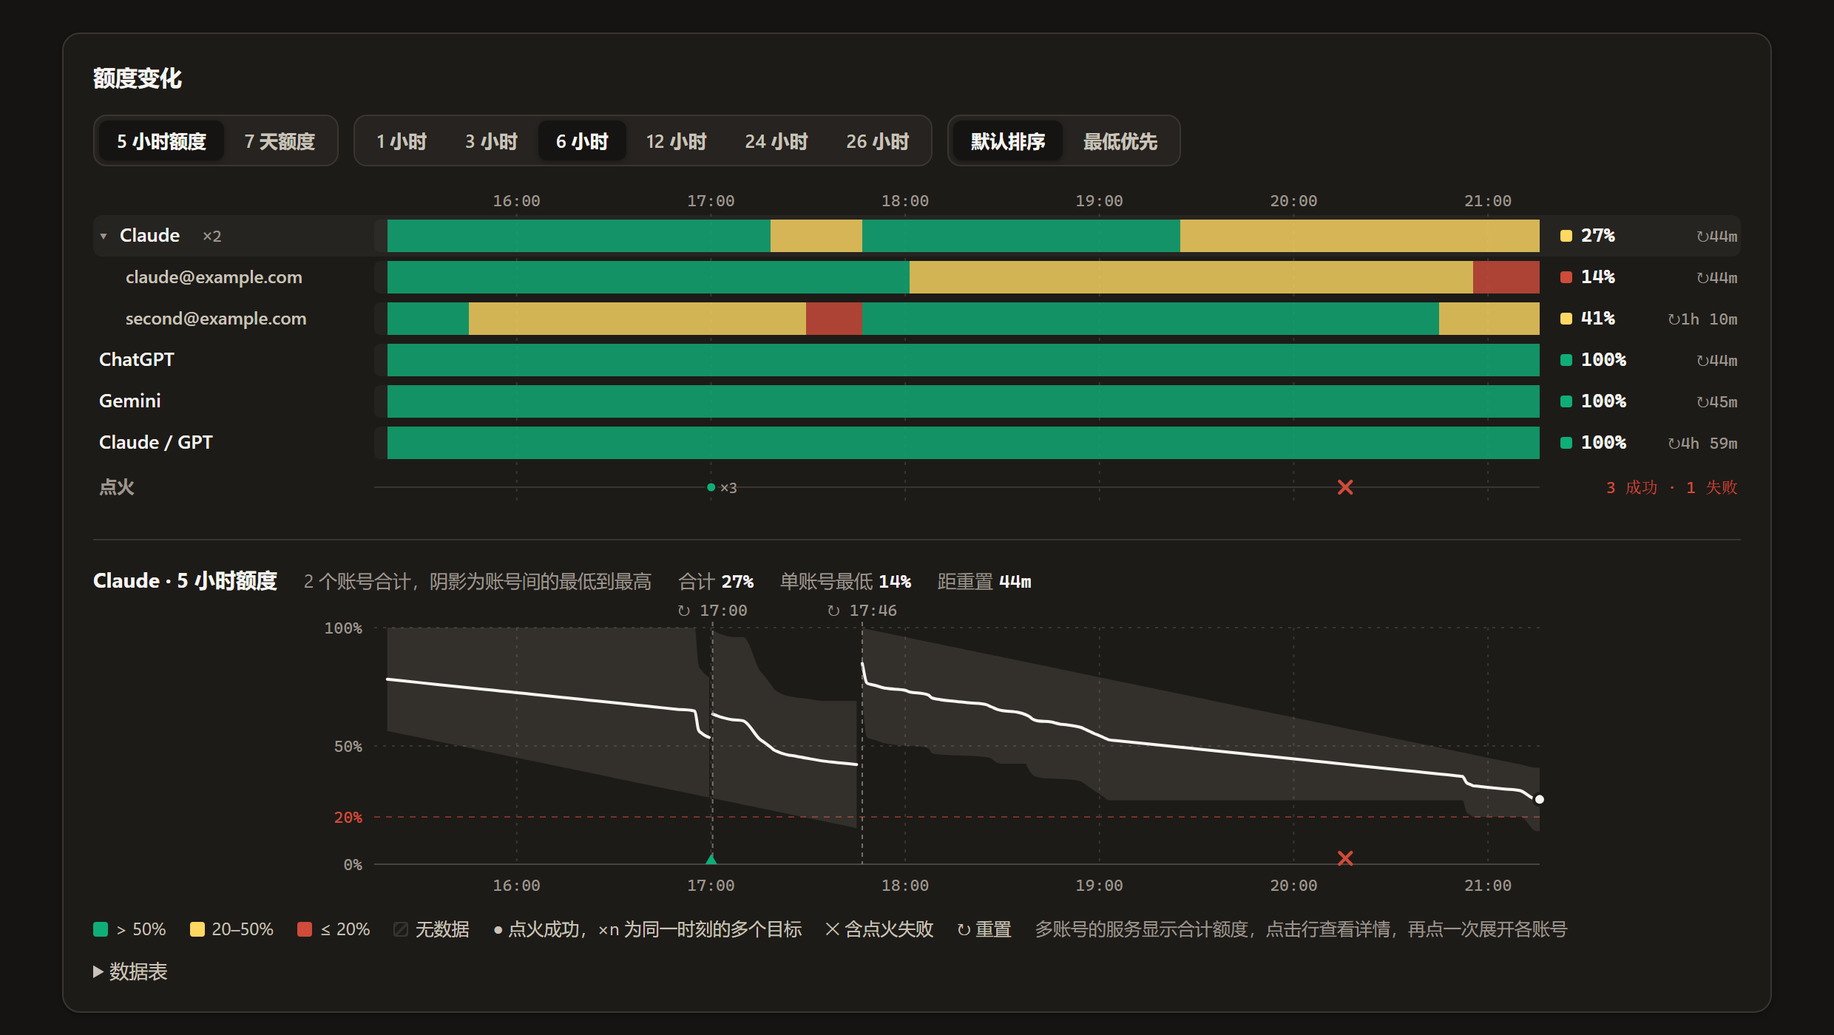
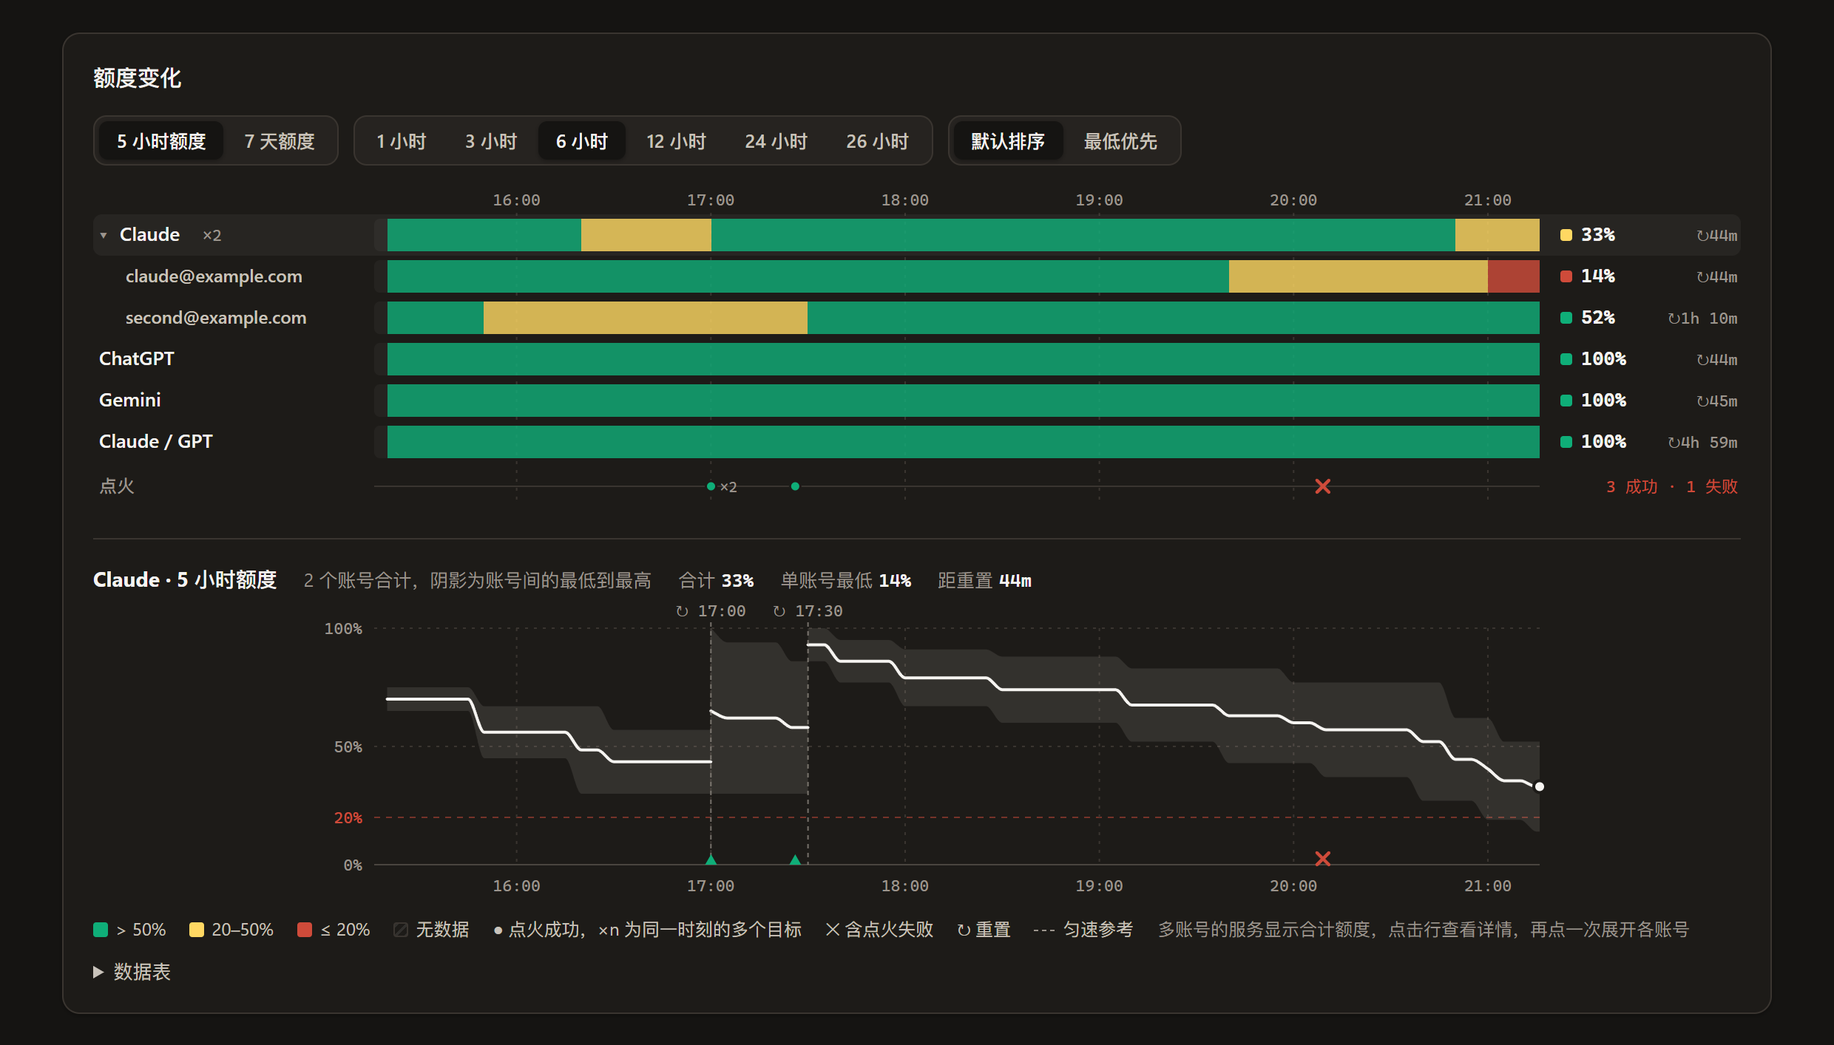
Draw an even-pace line for each quota cycle in the detail chart
Whether a cycle's usage is on track was hard to judge from the curve
alone. The detail chart of a single account now draws a dashed line for
each cycle, falling from 100% when the cycle starts to 0% at its reset,
and the tooltip shows its value at the hovered time.

A cycle ends at a reset found in the samples or at the current reset, and
starts one window length earlier, but not before the previous cycle ends:
a 5-hour window starts with the first request after a reset, so the
previous reset is not always the start. Pooled rows get no line, since
their accounts reset at different times.

The README chart screenshots are retaken from a mocked CPA to show the
line and the new legend entry.

diff --git a/internal/web/page.js b/internal/web/page.js
@@ -105,6 +105,7 @@
       legend_ignited: "● 点火成功，×n 为同一时刻的多个目标",
       legend_failed: "✕ 含点火失败",
       legend_reset: "↻ 重置",
+      pace_reference: "匀速参考",
       legend_pooled: "多账号的服务显示合计额度，点击行查看详情，再点一次展开各账号",
       data_table: "数据表",
       col_quota: "额度", col_account: "账号", col_latest: "最新", col_min: "最低", col_max: "最高", col_samples: "样本", col_to_reset: "距重置",
@@ -229,6 +230,7 @@
       legend_ignited: "● ignition succeeded; ×n marks several targets at the same time",
       legend_failed: "✕ an ignition failed",
       legend_reset: "↻ reset",
+      pace_reference: "Even pace",
       legend_pooled: "Services with several accounts show their total; click a row for details, click again to list the accounts",
       data_table: "Data table",
       col_quota: "Quota", col_account: "Account", col_latest: "Latest", col_min: "Lowest", col_max: "Highest", col_samples: "Samples", col_to_reset: "Until reset",
@@ -1398,8 +1400,34 @@
     return { parts: parts, resets: resets };
   }
 
+  var WINDOW_SECONDS = { "5h": 5 * 3600, "7d": 7 * 86400 };
+
+  // Cycles of one account's window, each as [start, end]. A cycle ends at a
+  // reset seen in the samples or at the current reset, and starts one window
+  // length before it, but not before the previous cycle ends. A 5-hour window
+  // starts with the first request after a reset, so the time between two
+  // windows belongs to neither. A seen reset close to the current one is the
+  // same reset.
+  function paceCycles(resets, current, length) {
+    var ends = resets.slice();
+    if (current && !ends.some(function (t) { return Math.abs(t - current) < length / 2; })) ends.push(current);
+    ends.sort(function (a, b) { return a - b; });
+    return ends.map(function (end, i) { return [Math.max(end - length, i ? ends[i - 1] : -Infinity), end]; });
+  }
+
+  // The remaining an even pace leaves at t: 100% at the start of the cycle
+  // falling to 0% at its reset, or null outside the cycles.
+  function paceAt(cycles, t) {
+    for (var i = 0; i < cycles.length; i++) {
+      var c = cycles[i];
+      if (t >= c[0] && t <= c[1]) return 100 * (c[1] - t) / (c[1] - c[0]);
+    }
+    return null;
+  }
+
   // Detail: the selected row as a smoothed line that breaks at resets. A
-  // pooled row adds a band from its lowest to its highest account.
+  // pooled row adds a band from its lowest to its highest account; a single
+  // account adds an even-pace line for each cycle.
   function renderDetail(row, head, box) {
     var g = chartView, limit = gapLimit();
     snapPoints = row.points;
@@ -1446,6 +1474,10 @@
         fill: cssVar("--text-tertiary"), "class": "row-name" }, translate("no_data")));
     }
 
+    // Added before the curves, so the even-pace lines drawn into it later
+    // lie beneath them.
+    var paceLayer = svg("g", {});
+    root.appendChild(paceLayer);
     var resets = [];
     stretches.forEach(function (run) {
       // Hold the last value to the end of the stretch so the line reaches it.
@@ -1470,6 +1502,15 @@
         if (!group) root.appendChild(svg("path", { d: d + "L" + xy[xy.length - 1][0] + " " + y(0) + "L" + xy[0][0] + " " + y(0) + "Z", fill: "url(#chart-fade)" }));
         root.appendChild(svg("path", { d: d, fill: "none", stroke: cssVar("--text-primary"), "stroke-width": 2, "stroke-linejoin": "round", "stroke-linecap": "round" }));
       });
+    });
+    // The accounts of a pooled row reset at different times, so it has no
+    // cycles of its own.
+    var cycles = group || !WINDOW_SECONDS[historyWindow] ? [] : paceCycles(resets, row.reset, WINDOW_SECONDS[historyWindow]);
+    cycles.forEach(function (c) {
+      var a = Math.max(c[0], g.from), b = Math.min(c[1], g.to);
+      if (b <= a) return;
+      paceLayer.appendChild(svg("line", { x1: g.x(a), y1: y(paceAt([c], a)), x2: g.x(b), y2: y(paceAt([c], b)),
+        stroke: cssVar("--text-tertiary"), "stroke-opacity": 0.8, "stroke-width": 1.5, "stroke-dasharray": "6 4" }));
     });
     var lastLabel = -99;
     resets.forEach(function (t) {
@@ -1541,6 +1582,9 @@
         if (row.children.length > 6) tip.appendChild(el("div", { class: "row muted", text: translate("more_accounts", row.children.length - 6) }));
       } else {
         tipRow(tip, row.name + (p ? translate(p[2] === 1 ? "passive_sample" : "active_sample") : ""), p ? p[1] : null, true);
+        var pace = paceAt(cycles, t);
+        if (pace != null) tip.appendChild(el("div", { class: "row pace" }, [el("span", { class: "key" }),
+          el("span", { class: "name", text: translate("pace_reference") }), el("span", { class: "value", text: pct(pace) })]));
       }
       var near = (g.to - g.from) / g.plotW * 8;
       resets.forEach(function (r) { if (Math.abs(r - t) <= near) tip.appendChild(el("div", { class: "note", text: fmtClock(unixDate(r)) + " " + translate("quota_reset") })); });

diff --git a/internal/web/page.css b/internal/web/page.css
@@ -340,6 +340,7 @@ td.actions { text-align: right; }
   background: repeating-linear-gradient(135deg, var(--chart-hatch) 0 2px, transparent 2px 5px);
   border: 1px solid var(--border-color);
 }
+.legend .swatch.pace { width: 14px; height: 0; border-radius: 0; border-top: 1.5px dashed var(--text-tertiary); vertical-align: 3px; }
 .legend .muted { color: var(--text-tertiary); }
 .tooltip {
   position: absolute; pointer-events: none; background: var(--floating-surface); border: 1px solid var(--border-color);
@@ -350,6 +351,8 @@ td.actions { text-align: right; }
 .tooltip .row.strong { font-weight: 650; }
 .tooltip .row.muted { display: block; color: var(--text-tertiary); }
 .tooltip .key { width: 8px; height: 8px; border-radius: 2px; }
+.tooltip .row.pace { color: var(--text-tertiary); }
+.tooltip .row.pace .key { height: 0; border-radius: 0; border-top: 1.5px dashed var(--text-tertiary); }
 .tooltip .name { overflow: hidden; text-overflow: ellipsis; white-space: nowrap; }
 .tooltip .value { font-family: var(--font-mono); font-variant-numeric: tabular-nums; text-align: right; }
 .tooltip .note { color: var(--text-secondary); border-top: 1px solid var(--border-color); margin-top: 5px; padding-top: 5px; }

diff --git a/internal/web/page.html b/internal/web/page.html
@@ -75,6 +75,7 @@
       <span data-i18n="legend_ignited">● 点火成功，×n 为同一时刻的多个目标</span>
       <span data-i18n="legend_failed">✕ 含点火失败</span>
       <span data-i18n="legend_reset">↻ 重置</span>
+      <span><i class="swatch pace"></i><span data-i18n="pace_reference">匀速参考</span></span>
       <span class="muted" data-i18n="legend_pooled">多账号的服务显示合计额度，点击行查看详情，再点一次展开各账号</span>
     </p>
     <details>

diff --git a/docs/architecture_EN.md b/docs/architecture_EN.md
@@ -64,6 +64,7 @@ The page does all data handling for the quota chart:
 - **Remembered filters**: with `remember_chart_filters` on, the page keeps the selected window, the order and the range of each window in `lamplighter-chart-filters` in `localStorage` and restores them when it opens. The 5-hour and 7-day windows offer different ranges, so each keeps its own. A saved value that is not among the current choices falls back to the default. The page reads the switch from the settings form, so a change takes effect before it is saved; turning it off deletes the record.
 - **Loading**: the page requests the history of the selected window (the `window` parameter) and caches responses by window and range. Choosing a cached combination draws the cached data at once and requests it again, redrawing when the response arrives; without a cached response the chart is grayed out until it arrives. Only the response of the latest load is drawn; an older one that arrives after a switch only goes into the cache. While a request for the same combination is under way, a load joins it, except the loads after a refresh or an ignition. When a request fails and there is no data for the chosen combination, the chart shows the error instead of another combination's old chart. When the page opens and the first chart has loaded, the page requests the other window's range in advance, so switching windows does not wait.
 - **Resets**: a rise of 5 points or more between two samples is a reset. The line breaks there: the previous piece holds its last value up to the reset sample, the next piece starts at the value after the reset, and the reset time is labeled; two rises one sample apart count as one reset. One account resetting raises the pooled total by only its share, so the pooled line does not break when the rise is under 5 points.
+- **Even-pace line**: the detail chart of a single account draws a dashed line for each cycle, falling linearly from 100% when the cycle starts to 0% at its reset, and the tooltip shows its value at the hovered time. A cycle ends at a reset found in the samples or at the current window's `reset` from the status API (the two count as one reset when they are less than half a window apart), and starts one window length (5 hours or 7 days) before its end, but not before the previous cycle ends. The start is not the previous reset: a 5-hour window starts with the first request after a reset, so there can be time between two windows that belongs to neither. A reset that falls in a gap is not found, and its cycle gets no line; cycles are not extrapolated at a fixed interval, which would misplace that time between windows. The accounts of a pooled row reset at different times, so a pooled row has no cycles and no line.
 - **Smoothing**: within one window a quota only falls, but active queries and response headers can differ by a point and round differently, so samples briefly step back up. Before drawing, each piece is fitted to the closest non-increasing sequence by pooling adjacent violators into their mean; otherwise every step back would leave a small notch in the line. Tooltips still show the raw samples. Lines use monotone cubic interpolation (Fritsch-Carlson), which never passes beyond the fitted values. Quotas report whole percents, so steps of 2 points or less are joined as a steady decline; a plateau followed by a larger drop stays flat and then bends at the drop.
 - **Hover**: hovering either the overview or the detail chart snaps the crosshair to the sample of the detail row (the total line for pooled accounts) nearest the pointer; the tooltip time and every row's value are taken at that moment. Rows sampled at other times show their latest sample before it. When even the nearest sample is beyond the gap threshold, the crosshair stays at the pointer's time.
 

diff --git a/README_EN.md b/README_EN.md
@@ -8,7 +8,7 @@ Lamplighter is a native plugin for [CLIProxyAPI](https://github.com/router-for-m
 
 ![Management page: quota per account and ignition plans](./docs/images/overview.png)
 
-![Quota chart: the 5-hour quota over the last 12 hours, with the Claude curve below it marking resets and ignition results](./docs/images/chart.png)
+![Quota chart: the 5-hour quota over the last 12 hours, with the Claude curve below it marking resets, an even-pace line for each cycle and ignition results](./docs/images/chart.png)
 
 ![Quota chart: Claude with two accounts expanded into one row each, and below it the total line with the range between accounts](./docs/images/chart-accounts.png)
 
@@ -267,7 +267,7 @@ The page shows:
 
 - the quota windows of each account with reset times and data sources, with buttons to refresh or name each account;
 - the next ignition, last result and failure protection state of each quota group, with an "ignite now" button; hidden while ignition is off;
-- a quota chart for either the 5-hour quota, over the last 1, 3, 6, 12, 24 or 26 hours (6 by default), or the 7-day quota, over the last 1, 4, 8 or 15 days, one month (from this date last month), or 36 days (8 days by default). The top part has one colored band per service, colored like the quota bars, in the order Claude, ChatGPT, Gemini, Kimi, Grok, Fable, Claude / GPT by default or by lowest remaining; a service with several accounts shows their total and expands into one row per account. The bottom part plots the selected row with its resets and ignition results. Only the window kinds the accounts have are offered; windows of other lengths only show on the account cards. With `remember_chart_filters` on, the page keeps the last choices;
+- a quota chart for either the 5-hour quota, over the last 1, 3, 6, 12, 24 or 26 hours (6 by default), or the 7-day quota, over the last 1, 4, 8 or 15 days, one month (from this date last month), or 36 days (8 days by default). The top part has one colored band per service, colored like the quota bars, in the order Claude, ChatGPT, Gemini, Kimi, Grok, Fable, Claude / GPT by default or by lowest remaining; a service with several accounts shows their total and expands into one row per account. The bottom part plots the selected row with its resets and ignition results; for a single account it also draws an even-pace line for each cycle, from 100% when the cycle starts to 0% at its reset, so a curve above the line is using the quota slower than an even pace. Only the window kinds the accounts have are offered; windows of other lengths only show on the account cards. With `remember_chart_filters` on, the page keeps the last choices;
 - recent events in columns for time, type, quota group and detail;
 - the settings form at the bottom, folded until you click "设置" (Settings), with a test notification button in the notification settings. The test goes to every configured channel and shows the result of each; it uses the settings the plugin has applied, so after changing a setting, wait a few seconds before testing. An empty ignition model field shows the model the next ignition will use in its hint; for Antigravity, the model of the Gemini group. Services that cannot be ignited show "No ignition". The model list is read when the plugin starts, when `cpa_base_url` or `models_api_key` changes and for every ignition, so a model newly listed by CPA shows after the next ignition, which already uses it.
 

diff --git a/docs/architecture.md b/docs/architecture.md
@@ -64,6 +64,7 @@ Lamplighter 是用 Go 编写、以 `-buildmode=c-shared` 构建的 CPA 原生插
 - **记住筛选**：`remember_chart_filters` 开启时，页面把所选窗口、排序和每个窗口各自的时间范围存在 `localStorage` 的 `lamplighter-chart-filters` 中，打开页面时恢复；5 小时和 7 天的时间范围选项不同，所以分开保存。保存的值不在当前选项中时使用默认值。开关读取设置表单中的勾选状态，所以改动在保存前就生效；关闭时删除这项记录。
 - **加载**：页面按所选窗口请求历史（`window` 参数），并按窗口和时间范围缓存响应。切换到缓存过的组合时立即画出缓存的数据，同时重新请求，响应到达后重画；没有缓存时图表变灰，等响应到达。只有最近一次加载的响应会画到图上，切换后才到达的旧响应只存入缓存；同一组合已有请求在进行时，加载沿用这个请求，刷新和点火后的加载除外。请求失败且没有所选组合的数据时，图表显示错误信息，不再显示其他组合的旧图。页面打开、第一张图加载成功后，预先请求另一个窗口的时间范围，切换窗口时不用等待。
 - **重置**：相邻样本的剩余上升 5 个百分点及以上视为重置。曲线在重置处断开，前一段保持最后的值画到重置样本的时间，新的一段从重置后的值开始，图上标出重置时间；相隔一个样本的两次上升算一次重置。单个账号重置只让合计上升一部分，上升不足 5 个百分点时合计曲线不断开。
+- **匀速参考线**：单个账号的详情图为每个周期画一条虚线，从周期开始时的 100% 线性降到重置时的 0%，悬停提示同时给出该时刻的参考值。周期的终点是图上检测到的重置和状态接口中当前窗口的 `reset`（两者相差不到半个窗口时算同一次重置），起点是终点减去窗口长度（5 小时或 7 天），但不早于上一个周期的终点。起点不取上一次重置的时间：5 小时窗口从重置后的第一个请求开始计时，两个窗口之间可能空出一段，这段时间不属于任何周期。重置落在缺数据的区间里时检测不到，这个周期不画线；按固定间隔推算周期会把空出的时间算错，所以不推算。多账号合计行的各账号重置时间不同，没有统一的周期，不画参考线。
 - **平滑**：同一窗口内额度只会下降，但主动查询和响应头的数值可能差 1 个百分点，取整方式也不同，样本会短暂回升。画线前把每段样本拟合成最接近的非递增序列（相邻违例合并取平均），否则每次回升都会在曲线上留下一个小缺口；悬停提示仍显示原始样本。曲线使用单调三次插值（Fritsch-Carlson），不会越过拟合后的值。额度按整数百分比上报，所以变化不超过 2 个百分点的台阶按连续下降连线；平台之后是更大的下降时，曲线先保持水平，再在下降处弯折。
 - **悬停**：在概览图或详情图上悬停时，竖线吸附到详情图当前行（多账号为合计线）离鼠标最近的采样点，提示中的时间和各行数值都取该时刻；采样时间不同的其他行显示该时刻之前最近的样本。最近的采样点也超过缺数据阈值时，竖线停在鼠标所在的时间。
 

diff --git a/README.md b/README.md
@@ -10,7 +10,7 @@ Lamplighter（点灯人）是 [CLIProxyAPI](https://github.com/router-for-me/CLI
 
 ![管理页面：各账号额度和自动点火计划](./docs/images/overview.png)
 
-![额度变化图表：最近 12 小时的 5 小时额度，下方为 Claude 的额度曲线，标出重置和点火结果](./docs/images/chart.png)
+![额度变化图表：最近 12 小时的 5 小时额度，下方为 Claude 的额度曲线，标出重置、每个周期的匀速参考线和点火结果](./docs/images/chart.png)
 
 ![额度变化图表：多账号的 Claude 展开为各账号，下方为合计曲线和账号间的范围](./docs/images/chart-accounts.png)
 
@@ -269,7 +269,7 @@ plugins:
 
 - 各账号的额度窗口、重置时间和数据来源，可以单独刷新某个账号或给它命名；
 - 每个额度组的下次点火时间、最近一次结果和失败保护状态，可以立即点火；关闭自动点火时不显示这部分；
-- 额度变化图表：先选 5 小时或 7 天额度，5 小时额度可看最近 1、3、6、12、24、26 小时（默认 6 小时），7 天额度可看最近 1、4、8、15 天、1 个月（上月这一天到今天）和 36 天（默认 8 天）。上半部分每个服务一行色带，颜色与额度条相同，默认按 Claude、ChatGPT、Gemini、Kimi、Grok、Fable、Claude / GPT 排列，也可按剩余最低排序；同一服务有多个账号时显示合计，点击可展开各账号。下半部分是所选行的曲线，标出重置时刻和点火结果。只显示账号实际有的窗口种类，其他长度的窗口只在账号卡片上显示。开启 `remember_chart_filters` 后，页面记住上次的选择；
+- 额度变化图表：先选 5 小时或 7 天额度，5 小时额度可看最近 1、3、6、12、24、26 小时（默认 6 小时），7 天额度可看最近 1、4、8、15 天、1 个月（上月这一天到今天）和 36 天（默认 8 天）。上半部分每个服务一行色带，颜色与额度条相同，默认按 Claude、ChatGPT、Gemini、Kimi、Grok、Fable、Claude / GPT 排列，也可按剩余最低排序；同一服务有多个账号时显示合计，点击可展开各账号。下半部分是所选行的曲线，标出重置时刻和点火结果；单个账号的曲线还画出每个周期的匀速参考线，从周期开始时的 100% 降到重置时的 0%，曲线在线上方说明用得比匀速慢。只显示账号实际有的窗口种类，其他长度的窗口只在账号卡片上显示。开启 `remember_chart_filters` 后，页面记住上次的选择；
 - 最近的事件，按时间、类型、额度组和详情分列显示；
 - 设置表单，在页面底部，默认收起，点击“设置”展开。通知设置中可以发送测试推送：发到所有已配置的渠道并逐个显示结果，使用插件已应用的设置，修改设置后等几秒再测试。点火模型留空时，输入框的提示文字显示下一次点火将使用的模型；Antigravity 显示 Gemini 组的模型。不支持点火的服务显示“不支持点火”。模型列表在插件启动、修改 `cpa_base_url` 或 `models_api_key` 和每次点火时读取，所以 CPA 列出的新模型在下一次点火后才显示，点火本身会直接使用新模型。
 
